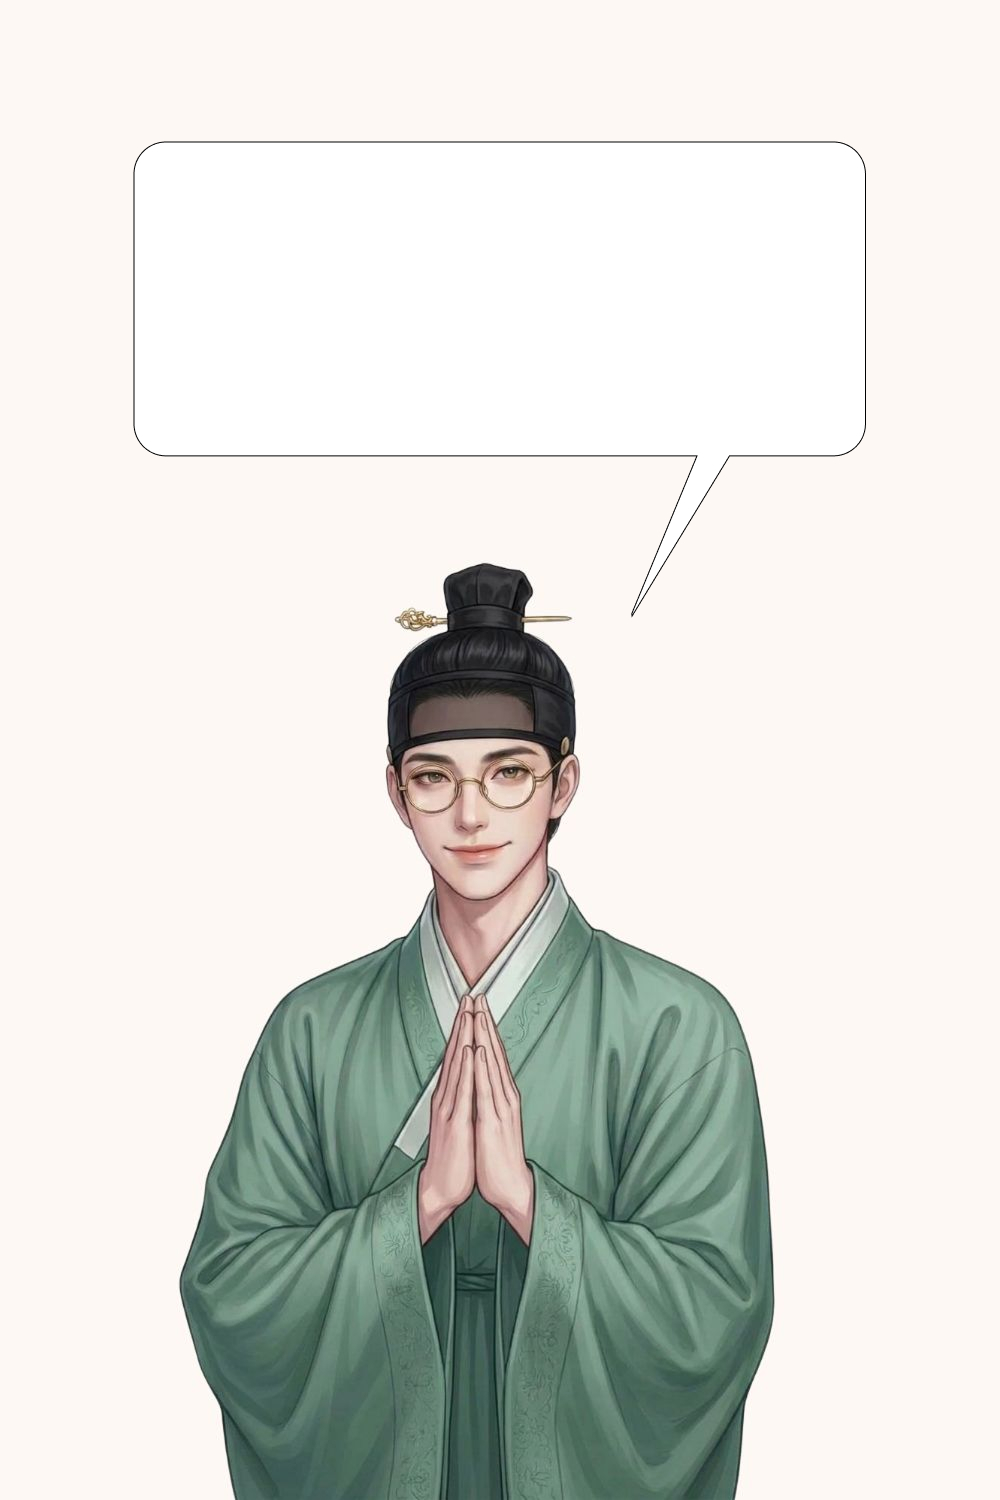
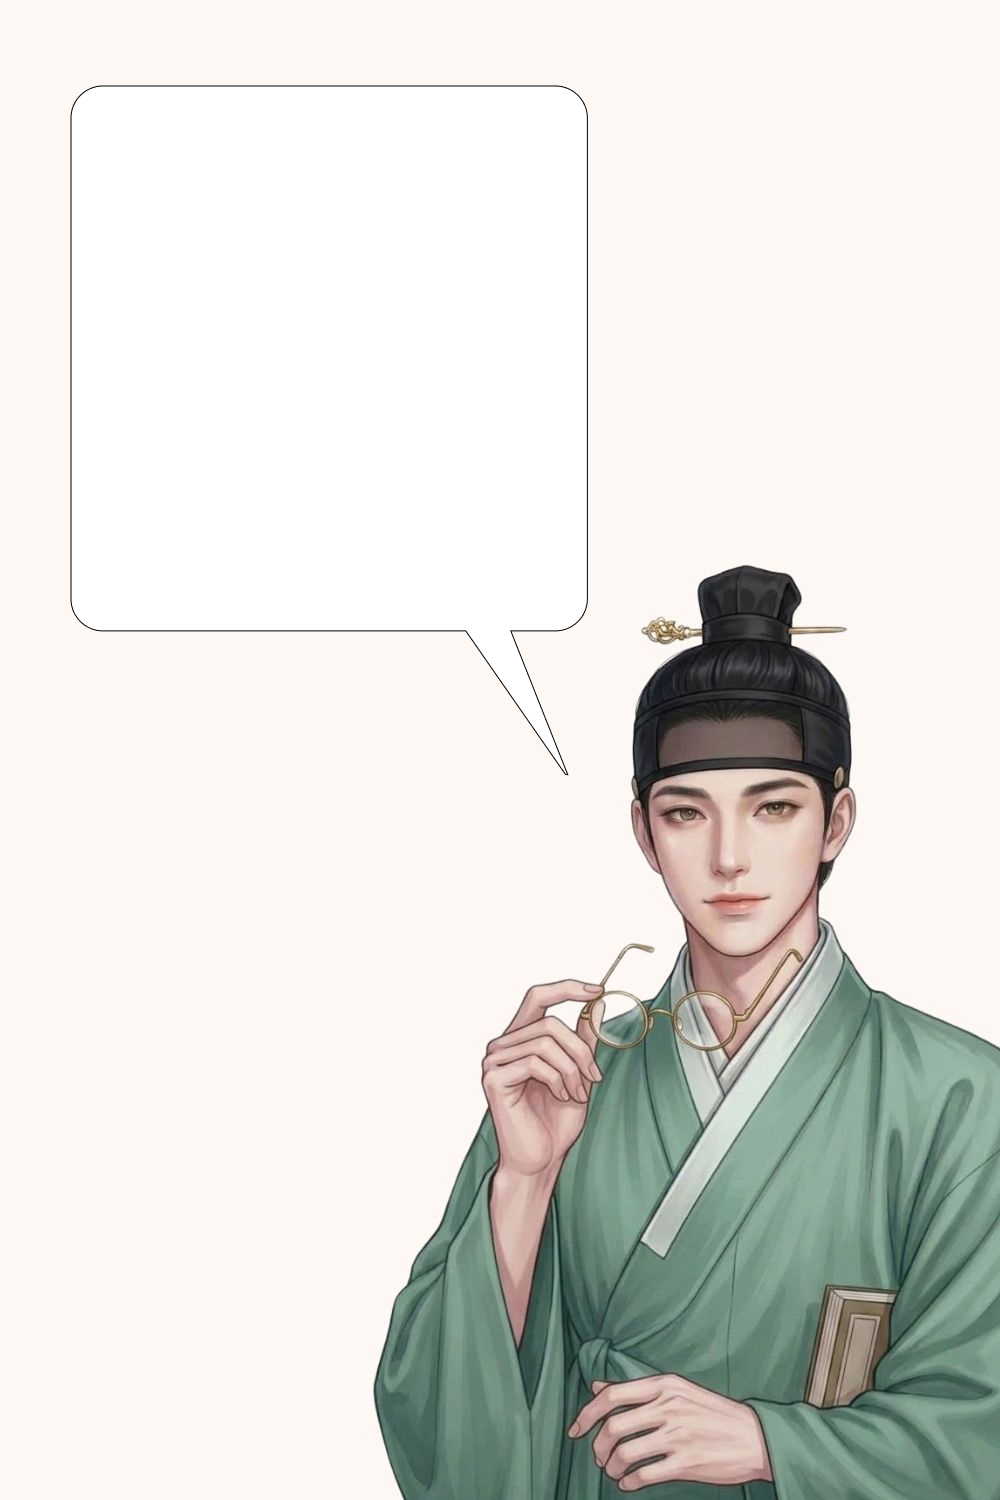
feat(saju_total): 제9장 삽화 텍스트 오버레이 추가 및 마지막 서신 프롬프트/UI 수정
- total-14-1.jpg, total-14-2.jpg 텍스트 오버레이 내용 확정
- 제9장 하단멘트 '이로써~보았소.' 삭제
- 마지막 서신 프롬프트 인사말 제거 (고민 회상 문단만 유지)
- 목차 플로팅 창 '인트로 · 서론' 텍스트 삭제

diff --git a/src/app/(detail)/saju/saju_total/report-preview/page.tsx b/src/app/(detail)/saju/saju_total/report-preview/page.tsx
@@ -3993,7 +3993,6 @@ function TocPanel({ open, onClose, currentNo, onSelect }: { open: boolean; onClo
           <div className="flex items-center justify-between mb-1">
             <div className="flex items-baseline gap-2">
               <h2 className="text-[21px] font-black" style={{ color: INK, fontFamily: SERIF }}>목차</h2>
-              <span className="text-[11.5px]" style={{ color: MUTE }}>인트로 · 서론</span>
             </div>
             <button
               onClick={onClose}
@@ -5665,7 +5664,7 @@ function ReportPreviewInner() {
           <Illust src="/media/report/total/total-2/total-2-2.jpg" h={360} noTopGrad>
             <div className="absolute pointer-events-none" style={{ top: "15%", left: "70%", transform: "translate(-50%, -50%)" }}>
               <p className="text-[18px] font-bold text-center" style={{ color: "#2a2320", fontFamily: SERIF, lineHeight: 1.6, whiteSpace: "nowrap" }}>
-                텍스트를<br />입력하시오.
+                {name.slice(1) || name}님에게<br />꼭 필요한 기운과<br />멀리해야할 기운을<br />알려주겠소.
               </p>
             </div>
           </Illust>
@@ -5734,7 +5733,7 @@ function ReportPreviewInner() {
           <Illust src="/media/report/total/total-2/total-2-3.jpg" h={360} noTopGrad>
             <div className="absolute pointer-events-none" style={{ top: "17%", left: "72%", transform: "translate(-50%, -50%)" }}>
               <p className="text-[18px] font-bold text-center" style={{ color: "#2a2320", fontFamily: SERIF, lineHeight: 1.6, whiteSpace: "nowrap" }}>
-                텍스트를<br />입력하시오.
+                {name.slice(1) || name}님을 대표하는<br />사주의 결이 있소.<br /><br />{name.slice(1) || name}님의 격국은,
               </p>
             </div>
           </Illust>
@@ -5839,7 +5838,7 @@ function ReportPreviewInner() {
           <Illust src="/media/report/total/total-4/total-4-1.jpg" h={360} noTopGrad>
             <div className="absolute pointer-events-none" style={{ top: "18%", left: "42%", transform: "translate(-50%, -50%)" }}>
               <p className="text-[18px] font-bold text-center" style={{ color: "#2a2320", fontFamily: SERIF, lineHeight: 1.6, whiteSpace: "nowrap" }}>
-                텍스트를<br />입력하시오.
+                사주 안에서 글자들은<br /><br />서로 싸우기도 하고,<br />힘을 합치기도 하오.
               </p>
             </div>
           </Illust>
@@ -5854,7 +5853,7 @@ function ReportPreviewInner() {
           <Illust src="/media/report/total/total-4/total-4-2.jpg" h={360} noTopGrad>
             <div className="absolute pointer-events-none" style={{ top: "25%", left: "70%", transform: "translate(-50%, -50%)" }}>
               <p className="text-[18px] font-bold text-center" style={{ color: "#2a2320", fontFamily: SERIF, lineHeight: 1.6, whiteSpace: "nowrap" }}>
-                텍스트를<br />입력하시오.
+                글자 하나하나가<br /><br />{name.slice(1) || name}님 인생의<br />단서였소.
               </p>
             </div>
           </Illust>
@@ -5949,7 +5948,7 @@ function ReportPreviewInner() {
           <Illust src="/media/report/total/total-3/total-3-2.jpg" noTopGrad>
             <div className="absolute pointer-events-none" style={{ top: "20%", left: "65%", transform: "translate(-50%, -50%)" }}>
               <p className="text-[18px] font-bold text-center" style={{ color: "#2a2320", fontFamily: SERIF, lineHeight: 1.6, whiteSpace: "nowrap" }}>
-                텍스트를<br />입력하시오.
+                {name.slice(1) || name}님이 세상에<br />내보이는 모습,<br /><br />월주에 담겨있소.
               </p>
             </div>
           </Illust>
@@ -6002,7 +6001,7 @@ function ReportPreviewInner() {
           <Illust src="/media/report/total/total-3/total-3-3.jpg" noTopGrad>
             <div className="absolute pointer-events-none" style={{ top: "22%", left: "35%", transform: "translate(-50%, -50%)" }}>
               <p className="text-[18px] font-bold text-center" style={{ color: "#2a2320", fontFamily: SERIF, lineHeight: 1.6, whiteSpace: "nowrap" }}>
-                텍스트를<br />입력하시오.
+                {name.slice(1) || name}님의 사주팔자를<br />MBTI로 치환하면<br />어떤 유형이 나올지<br /><br />궁금하지 않소?
               </p>
             </div>
           </Illust>
@@ -6109,19 +6108,17 @@ function ReportPreviewInner() {
 
           {/* 삽화 */}
           <Illust src="/media/report/total/total-3/total-3-1.jpg" h={360} noTopGrad>
-            <div className="absolute pointer-events-none" style={{ top: "25%", left: "70%", transform: "translate(-50%, -50%)" }}>
+            <div className="absolute pointer-events-none" style={{ top: "25%", left: "68%", transform: "translate(-50%, -50%)" }}>
               <p className="text-[18px] font-bold text-center" style={{ color: "#2a2320", fontFamily: SERIF, lineHeight: 1.6, whiteSpace: "nowrap" }}>
-                텍스트를<br />입력하시오.
+                知彼知己 百戰百勝<br /><br />지피지기 백전백승
               </p>
             </div>
           </Illust>
 
           {/* 마무리 인용 */}
-          <div className="px-8 py-12 text-center">
-            <p className="text-[26px] font-black mb-3" style={{ color: INK, fontFamily: SERIF }}>知彼知己 百戰百勝</p>
-            <p className="text-[18px] font-black mb-10" style={{ color: INK, fontFamily: SERIF }}>지피지기 백전백승</p>
-            <div style={{ width: 1, height: 48, background: "#ccc", margin: "0 auto 40px" }} />
-            <p className="text-[18px] leading-[2] whitespace-pre-line" style={{ color: INK, fontFamily: SERIF }}>{`내가 어떤 사람인지를\n정확히 알고있어야 이겨낼 수 있소.\n결코 잊어서는 안될 것이오.`}</p>
+          <div className="px-8 py-10 text-center" style={{ background: `linear-gradient(to bottom, ${CREAM}, ${PINK_PALE})` }}>
+            <div style={{ width: 1, height: 48, background: "#ccc", margin: "0 auto 32px" }} />
+            <p className="text-[17px] leading-[2.1] whitespace-pre-line" style={{ color: INK, fontFamily: SERIF }}>{`내가 어떤 사람인지를\n정확히 알고있어야 이겨낼 수 있소.\n결코 잊어서는 안될 것이오.`}</p>
           </div>
 
           {/* 다음 장 네비 */}
@@ -6170,8 +6167,8 @@ function ReportPreviewInner() {
           {/* 세운 흐름 */}
           <Illust src="/media/report/total/total-8/total-8-1.jpg" noTopGrad>
             <div className="absolute pointer-events-none" style={{ top: "22%", left: "30%", transform: "translate(-50%, -50%)" }}>
-              <p className="text-[18px] font-bold text-center" style={{ color: "#2a2320", fontFamily: SERIF, lineHeight: 1.6, whiteSpace: "nowrap" }}>
-                텍스트를<br />입력하시오.
+              <p className="text-[15px] font-bold text-center" style={{ color: "#2a2320", fontFamily: SERIF, lineHeight: 1.6, whiteSpace: "nowrap" }}>
+                대운의 흐름 안에서<br />해마다 어떤 운이 오는지,<br />세운으로 살펴보겠소.
               </p>
             </div>
           </Illust>
@@ -6233,7 +6230,7 @@ function ReportPreviewInner() {
           <Illust src="/media/report/total/total-5/total-5-2.jpg" noTopGrad>
             <div className="absolute pointer-events-none" style={{ top: "15%", left: "50%", transform: "translate(-50%, -50%)" }}>
               <p className="text-[18px] font-bold text-center" style={{ color: "#2a2320", fontFamily: SERIF, lineHeight: 1.6, whiteSpace: "nowrap" }}>
-                텍스트를<br />입력하시오.
+                언제 벌고 언제 잃는지,<br /><br />{name.slice(1) || name}님의 재물 흐름을<br />그래프로 보여드리겠소.
               </p>
             </div>
           </Illust>
@@ -6247,8 +6244,8 @@ function ReportPreviewInner() {
           {/* 적직 */}
           <Illust src="/media/report/total/total-5/total-5-3.jpg" h={360} noTopGrad>
             <div className="absolute pointer-events-none" style={{ top: "25%", left: "75%", transform: "translate(-50%, -50%)" }}>
-              <p className="text-[18px] font-bold text-center" style={{ color: "#2a2320", fontFamily: SERIF, lineHeight: 1.6, whiteSpace: "nowrap" }}>
-                텍스트를<br />입력하시오.
+              <p className="text-[12px] font-bold text-center" style={{ color: "#2a2320", fontFamily: SERIF, lineHeight: 1.6, whiteSpace: "nowrap" }}>
+                돈보다 중요한 것은<br />맞는 일을 하는 것이오.<br /><br />{name.slice(1) || name}님에게<br />맞는 직업을 보겠소.
               </p>
             </div>
           </Illust>
@@ -6260,9 +6257,9 @@ function ReportPreviewInner() {
 
           {/* 직장인 vs 사업가 */}
           <Illust src="/media/report/total/total-5/total-5-4.jpg" h={360} noTopGrad>
-            <div className="absolute pointer-events-none" style={{ top: "32%", left: "33%", transform: "translate(-50%, -50%)" }}>
+            <div className="absolute pointer-events-none" style={{ top: "33%", left: "33%", transform: "translate(-50%, -50%)" }}>
               <p className="text-[18px] font-bold text-center" style={{ color: "#2a2320", fontFamily: SERIF, lineHeight: 1.6, whiteSpace: "nowrap" }}>
-                텍스트를<br />입력하시오.
+                조직 안에서<br />빛날 것인지,<br />스스로의 길을<br />걸을 것인지,<br /><br />사주에 답이 있소.
               </p>
             </div>
           </Illust>
@@ -6288,9 +6285,9 @@ function ReportPreviewInner() {
 
           {/* 투자 */}
           <Illust src="/media/report/total/total-5/total-5-5.jpg" noTopGrad>
-            <div className="absolute pointer-events-none" style={{ top: "20%", left: "60%", transform: "translate(-50%, -50%)" }}>
+            <div className="absolute pointer-events-none" style={{ top: "19%", left: "60%", transform: "translate(-50%, -50%)" }}>
               <p className="text-[18px] font-bold text-center" style={{ color: "#2a2320", fontFamily: SERIF, lineHeight: 1.6, whiteSpace: "nowrap" }}>
-                텍스트를<br />입력하시오.
+                사주는 투자도 알고 있소.<br /><br />{name.slice(1) || name}님에게 맞는<br />재테크 방식을 보여드리겠소.
               </p>
             </div>
           </Illust>
@@ -6349,8 +6346,8 @@ function ReportPreviewInner() {
           {/* 시기별 연애 흐름 */}
           <Illust src="/media/report/total/total-6/total-6-1.jpg" noTopGrad>
             <div className="absolute pointer-events-none" style={{ top: "25%", left: "32%", transform: "translate(-50%, -50%)" }}>
-              <p className="text-[18px] font-bold text-center" style={{ color: "#2a2320", fontFamily: SERIF, lineHeight: 1.6, whiteSpace: "nowrap" }}>
-                텍스트를<br />입력하시오.
+              <p className="text-[15px] font-bold text-center" style={{ color: "#2a2320", fontFamily: SERIF, lineHeight: 1.6, whiteSpace: "nowrap" }}>
+                사랑도 때가 있소.<br /><br />{name.slice(1) || name}님의 연애 흐름을<br />그래프로 보여드리겠소.
               </p>
             </div>
           </Illust>
@@ -6363,9 +6360,9 @@ function ReportPreviewInner() {
 
           {/* 이런 사주와 잘 맞아요 */}
           <Illust src="/media/report/total/total-6/total-6-2.jpg" h={360} noTopGrad>
-            <div className="absolute pointer-events-none" style={{ top: "17%", left: "50%", transform: "translate(-50%, -50%)" }}>
+            <div className="absolute pointer-events-none" style={{ top: "16%", left: "50%", transform: "translate(-50%, -50%)" }}>
               <p className="text-[18px] font-bold text-center" style={{ color: "#2a2320", fontFamily: SERIF, lineHeight: 1.6, whiteSpace: "nowrap" }}>
-                텍스트를<br />입력하시오.
+                {name.slice(1) || name}님과 가장 잘 맞는<br />이성의 사주가 있소.<br />딱 3명, 지금 공개하겠소!
               </p>
             </div>
           </Illust>
@@ -6379,9 +6376,9 @@ function ReportPreviewInner() {
 
           {/* 마무리 인용 */}
           <Illust src="/media/report/total/total-6/total-6-3.jpg" noTopGrad>
-            <div className="absolute pointer-events-none" style={{ top: "15%", left: "50%", transform: "translate(-50%, -50%)" }}>
-              <p className="text-[18px] font-bold text-center" style={{ color: "#2a2320", fontFamily: SERIF, lineHeight: 1.6, whiteSpace: "nowrap" }}>
-                텍스트를<br />입력하시오.
+            <div className="absolute pointer-events-none" style={{ top: "16%", left: "50%", transform: "translate(-50%, -50%)" }}>
+              <p className="text-[16px] font-bold text-center" style={{ color: "#2a2320", fontFamily: SERIF, lineHeight: 1.6, whiteSpace: "nowrap" }}>
+                {name.slice(1) || name}님의 연애운도 다 살펴봤소.<br />사랑은 준비된 자에게 오는것이오.<br /><br /><span style={{ fontSize: 18 }}>잘 기억하고 준비하시오.</span>
               </p>
             </div>
           </Illust>
@@ -6433,7 +6430,7 @@ function ReportPreviewInner() {
           <Illust src="/media/report/total/total-7/total-7-2.jpg" h={360} noTopGrad>
             <div className="absolute pointer-events-none" style={{ top: "23%", left: "30%", transform: "translate(-50%, -50%)" }}>
               <p className="text-[18px] font-bold text-center" style={{ color: "#2a2320", fontFamily: SERIF, lineHeight: 1.6, whiteSpace: "nowrap" }}>
-                텍스트를<br />입력하시오.
+                돈도, 사랑도,<br />결국 건강해야<br />지킬 수 있는것.<br /><br />{name.slice(1) || name}님의<br />건강 흐름이오.
               </p>
             </div>
           </Illust>
@@ -6449,18 +6446,11 @@ function ReportPreviewInner() {
           <Illust src="/media/report/total/total-7/total-7-1.jpg" h={400} noTopGrad>
             <div className="absolute pointer-events-none" style={{ top: "17%", left: "50%", transform: "translate(-50%, -50%)" }}>
               <p className="text-[18px] font-bold text-center" style={{ color: "#2a2320", fontFamily: SERIF, lineHeight: 1.6, whiteSpace: "nowrap" }}>
-                텍스트를<br />입력하시오.
+                건강까지 모두 살펴보았소.<br /><br />{name.slice(1) || name}님에게 앞으로의 대운은<br />어떻게 펼쳐지는지 살펴보겠소.
               </p>
             </div>
           </Illust>
-
-          {/* 마무리 인용 */}
-          <div className="px-8 py-10 text-center" style={{ background: `linear-gradient(to bottom, ${CREAM}, ${PINK_PALE})` }}>
-            <div style={{ width: 1, height: 48, background: "#ccc", margin: "0 auto 32px" }} />
-            <p className="text-[17px] leading-[2.1] whitespace-pre-line" style={{ color: INK, fontFamily: SERIF }}>
-              {`${name.slice(1) || name}님에게 앞으로의 대운은\n어떻게 흐르는지 살펴보겠소.`}
-            </p>
-          </div>
+          <div className="py-10" style={{ background: `linear-gradient(to bottom, ${CREAM}, ${PINK_PALE})` }} />
 
           {/* 다음 장 네비 */}
           <div style={{ background: PINK_PALE }}>
@@ -6500,9 +6490,9 @@ function ReportPreviewInner() {
             )}
             </section>
           <Illust src="/media/report/total/total-9/total-14-1.jpg" noTopGrad>
-            <div className="absolute pointer-events-none" style={{ top: "20%", left: "50%", transform: "translate(-50%, -50%)" }}>
-              <p className="text-[18px] font-bold text-center" style={{ color: "#2a2320", fontFamily: SERIF, lineHeight: 1.6, whiteSpace: "nowrap" }}>
-                텍스트를<br />입력하시오.
+            <div className="absolute pointer-events-none" style={{ top: "24%", left: "33%", transform: "translate(-50%, -50%)" }}>
+              <p className="text-[16px] font-bold text-center" style={{ color: "#2a2320", fontFamily: SERIF, lineHeight: 1.6, whiteSpace: "nowrap" }}>
+                타고난 기운을 살리면<br />운이 열리는 법이오.<br /><br />{name.slice(1) || name}님만의 개운법을<br />알려드리겠소.
               </p>
             </div>
           </Illust>
@@ -6521,14 +6511,14 @@ function ReportPreviewInner() {
           <Illust src="/media/report/total/total-9/total-14-2.jpg" noTopGrad>
             <div className="absolute pointer-events-none" style={{ top: "22%", left: "32%", transform: "translate(-50%, -50%)" }}>
               <p className="text-[18px] font-bold text-center" style={{ color: "#2a2320", fontFamily: SERIF, lineHeight: 1.6, whiteSpace: "nowrap" }}>
-                텍스트를<br />입력하시오.
+                이로써,<br /><br />{name.slice(1) || name}님의 사주를<br />모두 살펴보았소.
               </p>
             </div>
           </Illust>
           <div className="px-8 py-10 text-center" style={{ background: `linear-gradient(to bottom, ${CREAM}, ${PINK_PALE})` }}>
             <div style={{ width: 1, height: 48, background: "#ccc", margin: "0 auto 32px" }} />
             <p className="text-[17px] leading-[2.1] whitespace-pre-line" style={{ color: INK, fontFamily: SERIF }}>
-              {`이로써 ${name}님의 사주를\n모두 살펴보았소.\n\n마지막으로,\n소인이 그대에게 전하는\n서신을 남겨드리겠소.`}
+              {`마지막으로,\n소인이 그대에게 전하는\n서신을 남겨드리겠소.`}
             </p>
           </div>
 

diff --git a/src/lib/saju/report-content.ts b/src/lib/saju/report-content.ts
@@ -589,7 +589,7 @@ const CH_SCHEMA: Record<number, string> = {
   10: `{
   "letter": {
     "paragraphs": [
-      "이름을 부르며 시작하는 인사와, 어떤 고민(올해 운세·재물·결혼 등)을 안고 찾아왔는지 따뜻하게 회상하는 한 문단",
+      "어떤 고민(올해 운세·재물·결혼 등)을 안고 찾아왔는지 따뜻하게 회상하는 한 문단 (인사말 없이 바로 내용으로 시작)",
       "지난 힘들었던 시기를 일간 비유로 공감하며 잘 견뎌줘서 고맙다는 한 문단",
       "지금의 대운과 다가올 황금기(연도)의 결실을 희망으로 전하는 한 문단",
       "결혼/인연에 대한 격려 한 문단",
